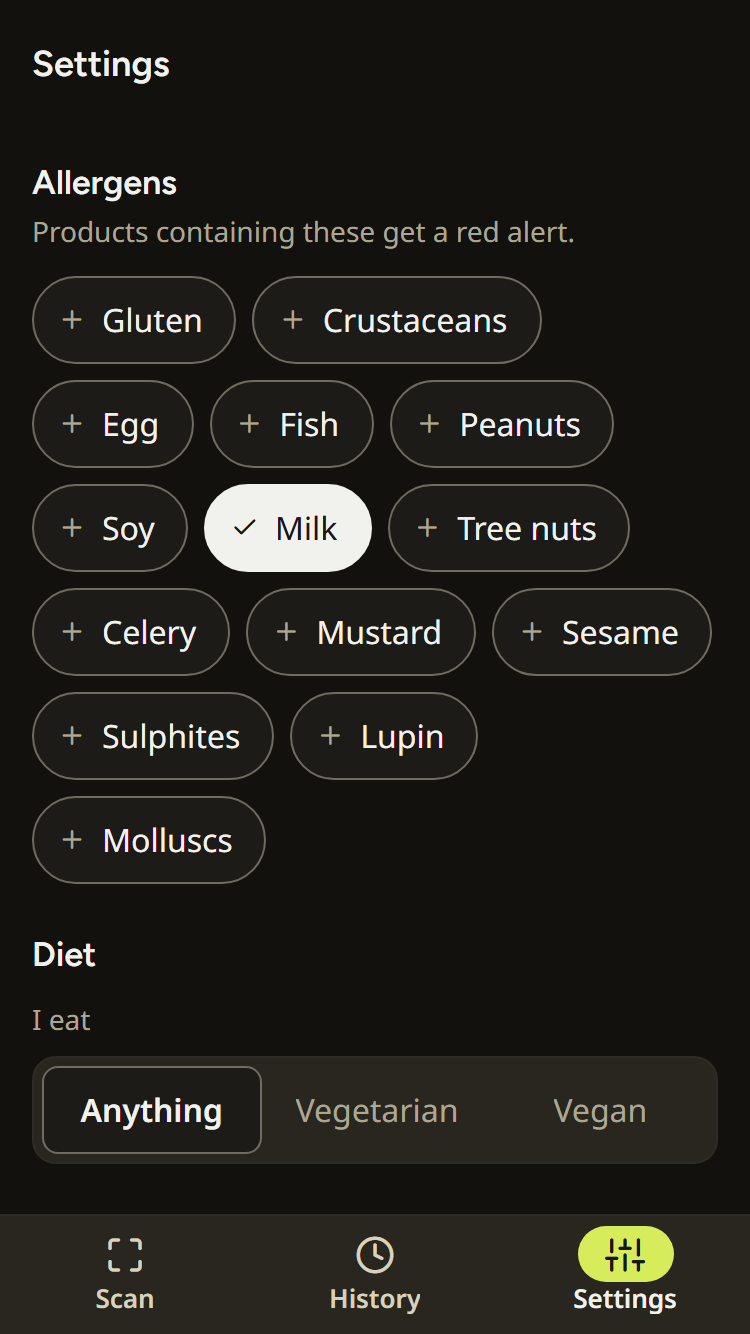
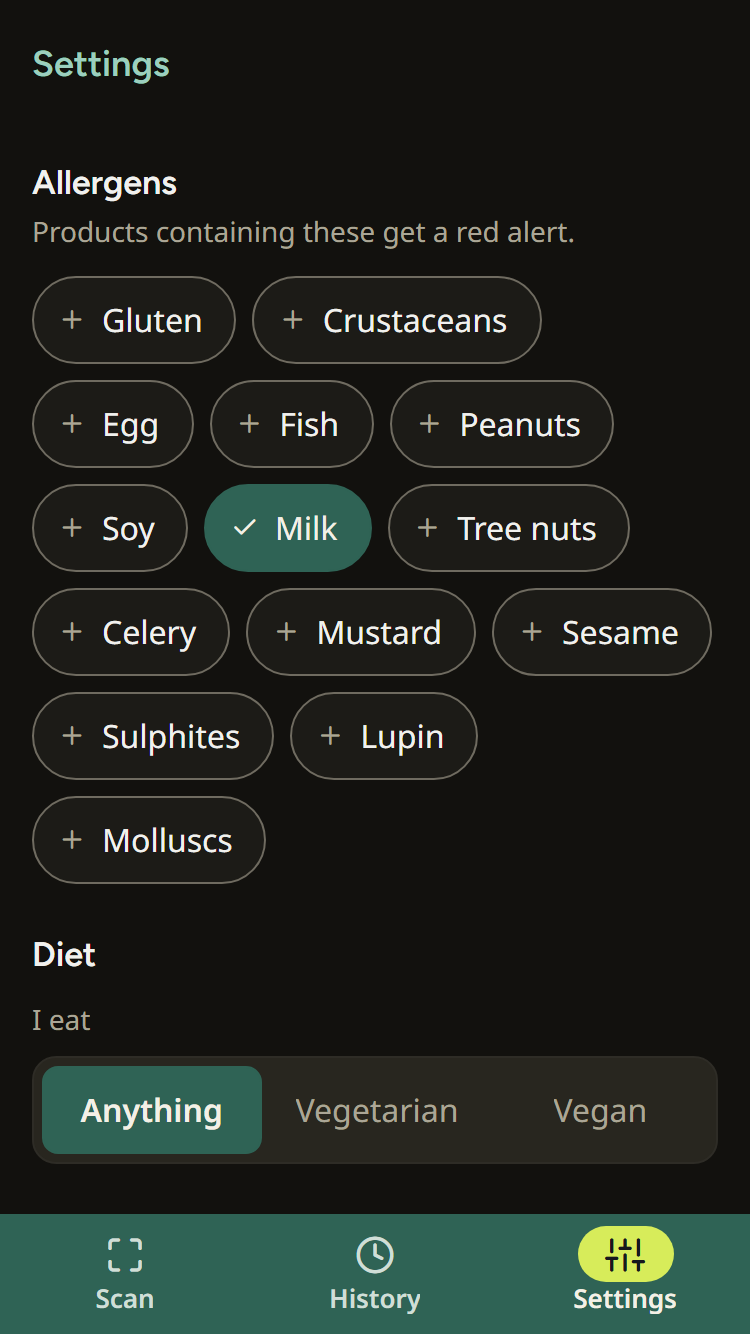
feat(brand): Food-Flag name, bitten-flag mark, pine and lemon palette
Rename the app from Flag All Things to Food-Flag (app name, slug, scheme,
package name, Open Food Facts user agent, header wordmark, docs). Saved-data
keys keep their old prefix so existing history and settings survive.

The brand mark's pennant now has a bite out of its fly edge (bitePath in
src/theme/brand.ts), pinned to the fly corner so it rides the wave. Icons,
adaptive layers, splash and favicon are regenerated; the bite is a mask in
the icon script so transparent Android layers keep it as a hole.

Palette moves to 60-30-10: cream canvas, pine for titles, selected
controls, toast, swipe action, example chips, viewfinder and the brand
tile, and lemon for the one primary action per screen. A disabled primary
drops to sand with muted text instead of a faded olive lemon.

Changed region(s): [[0.0, 0.7991, 1.0, 1.0], [0.276, 0.3381, 0.4907, 0.4303], [0.0307, 0.0307, 0.2453, 0.0615]]

diff --git a/src/components/controls.tsx b/src/components/controls.tsx
@@ -41,8 +41,8 @@ export function ToggleRow({ label, description, value, onChange, testID }: { lab
         <AppText>{label}</AppText>
         {description ? <AppText variant="meta" color={c.muted}>{description}</AppText> : null}
       </View>
-      <View style={[styles.track, { backgroundColor: value ? c.ink : c.surface, borderColor: value ? c.ink : c.borderStrong }]}>
-        <Animated.View style={[styles.thumb, { backgroundColor: value ? c.onInk : c.borderStrong }, thumb]} />
+      <View style={[styles.track, { backgroundColor: value ? c.pine : c.surface, borderColor: value ? c.pine : c.borderStrong }]}>
+        <Animated.View style={[styles.thumb, { backgroundColor: value ? c.onPine : c.borderStrong }, thumb]} />
       </View>
     </Pressable>
   );
@@ -65,13 +65,13 @@ export function ChipToggle({ label, value, onChange, testID }: { label: string; 
           onPressIn={press.onPressIn}
           onPressOut={press.onPressOut}
           style={(s) => [styles.chip, value
-            ? { backgroundColor: c.ink, borderColor: c.ink }
+            ? { backgroundColor: c.pine, borderColor: c.pine }
             : { backgroundColor: ((s as WebState).hovered || s.pressed) ? c.canvas : c.surface, borderColor: c.borderStrong }]}
         >
           {/* Plus turns to tick: the new icon mounts and pops in (icon swap, deep scale). */}
-          <Animated.View key={value ? 'on' : 'off'} entering={POP_ICON}><Icon name={value ? 'check' : 'plus'} size={14} color={value ? c.onInk : c.muted} weight="semibold" /></Animated.View>
+          <Animated.View key={value ? 'on' : 'off'} entering={POP_ICON}><Icon name={value ? 'check' : 'plus'} size={14} color={value ? c.onPine : c.muted} weight="semibold" /></Animated.View>
           {/* One weight in both states: a bold label would widen the chip and reflow the whole row. */}
-          <AppText color={value ? c.onInk : c.ink}>{label}</AppText>
+          <AppText color={value ? c.onPine : c.ink}>{label}</AppText>
         </Pressable>
       </Animated.View>
     </LayoutAnimationConfig>
@@ -94,9 +94,9 @@ export function Segmented<T extends string>({ label, options, value, onChange, t
               accessibilityState={{ checked: selected }}
               aria-checked={selected}
               onPress={() => { if (!selected) { tick(); onChange(o.value); } }}
-              style={(s) => [styles.segItem, selected && { backgroundColor: c.surface, borderColor: c.borderStrong, borderWidth: 1 }]}
+              style={(s) => [styles.segItem, selected && { backgroundColor: c.pine, borderColor: c.pine, borderWidth: 1 }]}
             >
-              <AppText variant={selected ? 'bodyStrong' : 'body'} color={selected ? c.ink : c.muted} numberOfLines={1}>{o.label}</AppText>
+              <AppText variant={selected ? 'bodyStrong' : 'body'} color={selected ? c.onPine : c.muted} numberOfLines={1}>{o.label}</AppText>
             </Pressable>
           );
         })}

diff --git a/src/components/BrandMark.tsx b/src/components/BrandMark.tsx
@@ -3,7 +3,7 @@ import { Platform, View } from 'react-native';
 import Animated, { Easing, cancelAnimation, useAnimatedProps, useReducedMotion, useSharedValue, withRepeat, withTiming } from 'react-native-reanimated';
 import Svg, { Circle, Path, Rect } from 'react-native-svg';
 
-import { MARK, flagPath } from '@/theme/brand';
+import { MARK, bitePath, flagPath } from '@/theme/brand';
 import { useTheme } from '@/theme/useTheme';
 
 const AnimatedPath = Animated.createAnimatedComponent(Path);
@@ -27,18 +27,22 @@ export function BrandMark({ size = 28, wave = false }: { size?: number; wave?: b
     return () => cancelAnimation(phase);
   }, [live, phase]);
   const flag = useAnimatedProps(() => ({ d: flagPath(phase.value) }));
+  const bite = useAnimatedProps(() => ({ d: bitePath(phase.value) }));
   const { knob: k, pole: p } = MARK;
 
   return (
     <View accessibilityElementsHidden importantForAccessibility="no-hide-descendants" style={{ width: size, height: size }}>
       {/* The viewBox is the mark's box widened by 1/0.72 around its centre: the same 0.72 inset as the app icon, so this is the icon in miniature. */}
       <Svg width={size} height={size} viewBox={`${-PAD} ${-PAD} ${BOX} ${BOX}`}>
-        <Rect x={-PAD} y={-PAD} width={BOX} height={BOX} rx={MARK.tileRadius / INSET} fill={c.onTertiary} />
+        <Rect x={-PAD} y={-PAD} width={BOX} height={BOX} rx={MARK.tileRadius / INSET} fill={c.pine} />
         <Circle cx={k.cx} cy={k.cy} r={k.r} fill={POLE} />
         <Rect x={p.x} y={p.y} width={p.width} height={p.height} rx={p.rx} fill={POLE} />
         {live
           ? <AnimatedPath animatedProps={flag} fill={c.tertiary} stroke={c.tertiary} strokeWidth={MARK.flagStroke} strokeLinejoin="round" />
           : <Path d={flagPath(MARK.restPhase)} fill={c.tertiary} stroke={c.tertiary} strokeWidth={MARK.flagStroke} strokeLinejoin="round" />}
+        {live
+          ? <AnimatedPath animatedProps={bite} fill={c.pine} />
+          : <Path d={bitePath(MARK.restPhase)} fill={c.pine} />}
       </Svg>
     </View>
   );

diff --git a/src/app/(tabs)/(scan)/index.tsx b/src/app/(tabs)/(scan)/index.tsx
@@ -98,7 +98,7 @@ export default function ScanScreen() {
     <Screen>
       <Stack.Screen options={{ headerTitle: () => <BrandTitle /> }} />
       {cameraUsable ? (
-        <View style={[styles.viewfinder, { height: viewfinderHeight, backgroundColor: c.ink }]}>
+        <View style={[styles.viewfinder, { height: viewfinderHeight, backgroundColor: c.pine }]}>
           {showCamera ? (
             <CameraView style={StyleSheet.absoluteFill} facing="back" enableTorch={torch}
               barcodeScannerSettings={{ barcodeTypes: ['ean13', 'ean8', 'upc_a'] }} onBarcodeScanned={onScanned} />
@@ -158,15 +158,15 @@ export default function ScanScreen() {
   );
 }
 
-/** Chips are small (<200pt), so they press like buttons: a 0.97 spring scale, not a fade (Charles, anticipation). */
+/** Pine, not lemon: lemon is kept for the one call to action (Look up). Chips are small (<200pt), so they press like buttons: a 0.97 spring scale, not a fade (Charles, anticipation). */
 function ExampleChip({ code, label, onPress }: { code: string; label: string; onPress: () => void }) {
   const c = useTheme();
   const press = usePressScale();
   return (
     <Animated.View style={press.style}>
       <Pressable testID={`example-${code}`} accessibilityRole="link" accessibilityLabel={`${label}, barcode ${code}`}
-        onPress={onPress} onPressIn={press.onPressIn} onPressOut={press.onPressOut} style={[styles.chip, { backgroundColor: c.tertiary }]}>
-        <AppText color={c.onTertiary}>{label}</AppText>
+        onPress={onPress} onPressIn={press.onPressIn} onPressOut={press.onPressOut} style={[styles.chip, { backgroundColor: c.pine }]}>
+        <AppText color={c.onPine}>{label}</AppText>
       </Pressable>
     </Animated.View>
   );

diff --git a/src/global.css b/src/global.css
@@ -2,14 +2,14 @@
    critique: native-first app; CSS only covers what React Native Web cannot express (true :focus-visible, page overflow).
    waive 7b (pure #fff): onInk/surface white is the contrast-checked DESIGN.md §2 token, used only on ink.
    waive 26b (:active): press feedback is a Reanimated spring on transform (DESIGN.md §8), not CSS. */
-:root { --color-ink: #16181D; --color-on-ink: #FFFFFF; --color-canvas: #F1EEE6; }
+:root { --color-ink: #16181D; --color-on-ink: #FFFFFF; --color-on-pine: #F3F0E6; --color-canvas: #F1EEE6; }
 /* Settings > Appearance sets data-theme on <html>; without it the page follows the system. */
 @media (prefers-color-scheme: dark) { :root:not([data-theme="light"]) { --color-ink: #F1F1EE; --color-on-ink: #16181D; --color-canvas: #12110E; } }
 :root[data-theme="dark"] { --color-ink: #F1F1EE; --color-on-ink: #16181D; --color-canvas: #12110E; }
 html, body { overflow-x: clip; background: var(--color-canvas); }
 :focus-visible { outline: 2px solid var(--color-ink); outline-offset: 2px; }
-/* the toast is ink-filled: its action needs the inverse ring */
-[role="alert"] :focus-visible { outline-color: var(--color-on-ink); }
+/* the toast is pine-filled: its action needs the cream ring */
+[role="alert"] :focus-visible { outline-color: var(--color-on-pine); }
 :focus:not(:focus-visible) { outline: none; }
 [aria-disabled="true"], :disabled { cursor: not-allowed; }
 @media (prefers-reduced-motion: reduce) {

diff --git a/src/theme/tokens.ts b/src/theme/tokens.ts
@@ -15,6 +15,9 @@ const light = {
   // Brand (palette C, ink + lemon): sand carries structure, lemon is a rare highlight. Lemon is ~1.2:1 on white,
   // so it is only ever a fill behind onTertiary content or a mark on dark camera, never text or a line on light.
   secondary: '#ECE7DA', onSecondary: '#4A4436', tertiary: '#E2F56A', onTertiary: '#16181D',
+  // 60-30-10 (DESIGN.md §2.1b): cream canvas 60, pine 30, lemon 10. Pine fills selected controls, the toast and the web
+  // tab bar; pineInk is pine as text on light (titles, back chevron, selected tab). Lemon is the call to action.
+  pine: '#1F3D36', onPine: '#F3F0E6', onPineMuted: '#C2D3CB', pineInk: '#1F3D36',
   danger: severity('#B42318', '#FDECEA', '#B42318', '#FFFFFF'),
   warning: severity('#8A4A00', '#FFF4DC', '#E59A1A', '#16181D'),
   info: severity('#1F5BB5', '#EAF2FD', '#1F5BB5', '#FFFFFF'),
@@ -30,6 +33,7 @@ const dark: Palette = {
   separator: '#3D3A32', border: '#2E2C26', borderStrong: '#6F6B60', onInk: '#16181D', scrim: 'rgba(0,0,0,0.6)',
   onScrim: '#FFFFFF',
   secondary: '#28261F', onSecondary: '#D8D1BE', tertiary: '#D7EC5A', onTertiary: '#16181D',
+  pine: '#2F6355', onPine: '#F3F0E6', onPineMuted: '#D0DED7', pineInk: '#9CCFBE',
   danger: severity('#FF8F85', '#3A1916', '#FF8F85', '#16181D'),
   warning: severity('#F5B851', '#35260B', '#F5B851', '#16181D'),
   info: severity('#8DB8FF', '#16243A', '#8DB8FF', '#16181D'),

diff --git a/src/theme/brand.ts b/src/theme/brand.ts
@@ -1,4 +1,4 @@
-// The brand mark's geometry, in a 100×100 box: a canvas-white pole with a round knob and a lemon pennant on an ink tile.
+// The brand mark's geometry, in a 100×100 box: a canvas-white pole with a round knob and a lemon pennant, bitten at the fly, on a pine tile.
 // Pure, so the app (BrandMark) and the icon script (scripts/brand-assets.mjs) draw the exact same shape.
 
 export const MARK = {
@@ -19,4 +19,14 @@ export function flagPath(phase: number, amp = 9): string {
   const a3 = amp * Math.sin(phase - 5.7);
   return `M${x0} ${y0} C${x0 + L / 3} ${y0 + a1} ${x0 + (2 * L) / 3} ${y0 + a2} ${x1} ${y0 + a3} `
     + `L${x1} ${y0 + h - 5 + a3} C${x0 + (2 * L) / 3} ${y0 + h + a2} ${x0 + L / 3} ${y0 + h + a1} ${x0} ${y0 + h} Z`;
+}
+
+/** The bite out of the fly edge (the "Food" in Food-Flag): two tile-coloured circles drawn over the pennant,
+ *  pinned to the fly corner so they ride the wave with it. */
+export function bitePath(phase: number, amp = 9): string {
+  'worklet';
+  const top = 22 + amp * Math.sin(phase - 5.7); // the fly corner's y, as in flagPath
+  const dot = (cx: number, cy: number, r: number) => `M${cx - r} ${cy} a${r} ${r} 0 1 0 ${2 * r} 0 a${r} ${r} 0 1 0 ${-2 * r} 0 `;
+  // Deep enough to still read as a bite at the 28 pt header size.
+  return dot(80, top + 7, 10.5) + dot(79.5, top + 19.5, 8.5);
 }

diff --git a/src/components/Button.tsx b/src/components/Button.tsx
@@ -47,7 +47,9 @@ export function Button({
   const c = useTheme();
   const press = usePressScale();
   const inactive = disabled || loading;
-  const fg = kind === 'primary' ? c.onInk : c.ink;
+  // A faded lemon reads as olive on dark, so a disabled primary drops to the sand track with muted text instead.
+  const off = disabled && kind === 'primary';
+  const fg = off ? c.muted : kind === 'primary' ? c.onTertiary : c.ink;
 
   return (
     <View style={[{ gap: space.s2 }, fullWidth ? styles.full : styles.inline]}>
@@ -63,11 +65,12 @@ export function Button({
           onPressOut={press.onPressOut}
           style={(s: WebState) => [
             styles.base,
-            kind === 'primary' && { backgroundColor: c.ink },
+            // Lemon is the 10%: the one call to action per screen.
+            kind === 'primary' && { backgroundColor: off ? c.secondary : c.tertiary },
             kind === 'secondary' && { backgroundColor: c.surface, borderWidth: 1, borderColor: c.borderStrong },
             kind === 'text' && styles.text,
             s.hovered && !inactive && kind !== 'text' && { opacity: 0.92 },
-            disabled && { opacity: 0.38 },
+            disabled && !off && { opacity: 0.38 },
             Platform.OS === 'web' && ({ cursor: inactive ? 'not-allowed' : 'pointer' } as ViewStyle),
           ]}
         >

diff --git a/src/components/header.tsx b/src/components/header.tsx
@@ -12,9 +12,10 @@ export function useHeaderOptions() {
   const c = useTheme();
   return {
     contentStyle: { backgroundColor: c.canvas },
-    headerTintColor: c.ink,
-    headerTitleStyle: { fontFamily: fonts.headingSemi, color: c.ink },
-    headerLargeTitleStyle: { fontFamily: fonts.heading, color: c.ink },
+    // Titles and the back chevron carry the pine (the 30%) on every screen.
+    headerTintColor: c.pineInk,
+    headerTitleStyle: { fontFamily: fonts.headingSemi, color: c.pineInk },
+    headerLargeTitleStyle: { fontFamily: fonts.heading, color: c.pineInk },
     headerShadowVisible: false,
     // A chevron only; long-press still opens the system back-history menu.
     headerBackButtonDisplayMode: 'minimal' as const,
@@ -30,10 +31,11 @@ export function TabStack({ title, large = true }: { title: string; large?: boole
 
 /** Scan's inline title: the brand mark with the app name. */
 export function BrandTitle() {
+  const c = useTheme();
   return (
     <View style={styles.brand}>
       <BrandMark size={28} />
-      <AppText variant="headline">Flag All Things</AppText>
+      <AppText variant="headline" color={c.pineInk}>Food-Flag</AppText>
     </View>
   );
 }

diff --git a/src/services/__tests__/off.test.ts b/src/services/__tests__/off.test.ts
@@ -45,10 +45,10 @@ test('503 then 503 → busy', async () => expect(await fetchProduct('57012345678
 test('web identifies by query string, native by User-Agent', async () => {
   const f = jest.fn((_url: string, _init?: RequestInit) => res(404, {}));
   await fetchProduct('5701234567899', { fetchImpl: f as unknown as typeof fetch, platform: 'web' });
-  expect(f.mock.calls[0][0]).toMatch(/app_name=FlagAllThings/);
+  expect(f.mock.calls[0][0]).toMatch(/app_name=FoodFlag/);
   expect((f.mock.calls[0][1]?.headers as Record<string, string> | undefined)?.['User-Agent']).toBeUndefined();
   await fetchProduct('5701234567899', { fetchImpl: f as unknown as typeof fetch, platform: 'ios' });
-  expect((f.mock.calls[1][1]!.headers as Record<string, string>)['User-Agent']).toMatch(/^FlagAllThings\/\d+\.\d+\.\d+ \(https:/);
+  expect((f.mock.calls[1][1]!.headers as Record<string, string>)['User-Agent']).toMatch(/^FoodFlag\/\d+\.\d+\.\d+ \(https:/);
 });
 test('a lookup that never answers times out to offline instead of hanging', async () => {
   const hang = jest.fn((_url: string, init?: RequestInit) => new Promise<Response>((_, reject) => {

diff --git a/src/components/Toast.tsx b/src/components/Toast.tsx
@@ -79,14 +79,14 @@ function ToastView({ toast, onAction, onPause, onResume, onDismiss }: { toast: T
       <Animated.View
         accessibilityRole="alert"
         accessibilityLiveRegion="polite"
-        style={[styles.toast, { backgroundColor: c.ink, shadowColor: c.shadow }, drag]}
+        style={[styles.toast, { backgroundColor: c.pine, shadowColor: c.shadow }, drag]}
       >
-        <AppText color={c.onInk} style={styles.message}>{toast.message}</AppText>
+        <AppText color={c.onPine} style={styles.message}>{toast.message}</AppText>
         {toast.actionLabel ? (
           <Pressable accessibilityRole="button" onPress={onAction} onHoverIn={onPause} onHoverOut={onResume}
             onFocus={onPause} onBlur={onResume} hitSlop={space.s2}
             style={styles.action}>
-            <AppText variant="bodyStrong" color={c.onInk} style={styles.underline}>{toast.actionLabel}</AppText>
+            <AppText variant="bodyStrong" color={c.onPine} style={styles.underline}>{toast.actionLabel}</AppText>
           </Pressable>
         ) : null}
       </Animated.View>

diff --git a/src/app/(tabs)/_layout.tsx b/src/app/(tabs)/_layout.tsx
@@ -7,13 +7,13 @@ import { useTheme } from '@/theme/useTheme';
  *  The web keeps its own bar in _layout.web.tsx. */
 export default function TabLayout() {
   const c = useTheme();
-  // Lemon can't tint glass (it fails contrast on light), so iOS selects in ink and lets the filled symbol mark the tab.
+  // Lemon can't tint glass (it fails contrast on light), so iOS selects in pine and lets the filled symbol mark the tab.
   // Android's Material indicator is a solid pill, so it keeps the lemon highlight with ink on it.
   const android = Platform.OS === 'android'
     ? { indicatorColor: c.tertiary, iconColor: { default: c.onSecondary, selected: c.onTertiary } }
     : {};
   return (
-    <NativeTabs tintColor={c.ink} minimizeBehavior="onScrollDown" {...android}>
+    <NativeTabs tintColor={c.pineInk} minimizeBehavior="onScrollDown" {...android}>
       <NativeTabs.Trigger name="(scan)" testID="tab-scan">
         <NativeTabs.Trigger.Icon sf="barcode.viewfinder" md="barcode_scanner" />
         <NativeTabs.Trigger.Label>Scan</NativeTabs.Trigger.Label>

diff --git a/src/services/off.ts b/src/services/off.ts
@@ -110,8 +110,8 @@ export async function fetchProduct(
   const { fetchImpl = fetch, platform = Platform.OS as 'web' | 'ios' | 'android', now = Date.now, timeoutMs = 10_000 } = opts;
   const version = Constants.expoConfig?.version ?? '1.0.0';
   // Browsers forbid setting User-Agent; OFF accepts app_name/app_version instead.
-  const query = `fields=${OFF_FIELDS}` + (platform === 'web' ? `&app_name=FlagAllThings&app_version=${version}` : '');
-  const init: RequestInit = platform === 'web' ? {} : { headers: { 'User-Agent': `FlagAllThings/${version} (${OFF_CONTACT})` } };
+  const query = `fields=${OFF_FIELDS}` + (platform === 'web' ? `&app_name=FoodFlag&app_version=${version}` : '');
+  const init: RequestInit = platform === 'web' ? {} : { headers: { 'User-Agent': `FoodFlag/${version} (${OFF_CONTACT})` } };
 
   const v3 = await attempt(`${BASE}/api/v3/product/${code}?${query}`, init, fetchImpl, now(), 'retry', timeoutMs);
   if (v3 !== 'retry') return v3;
